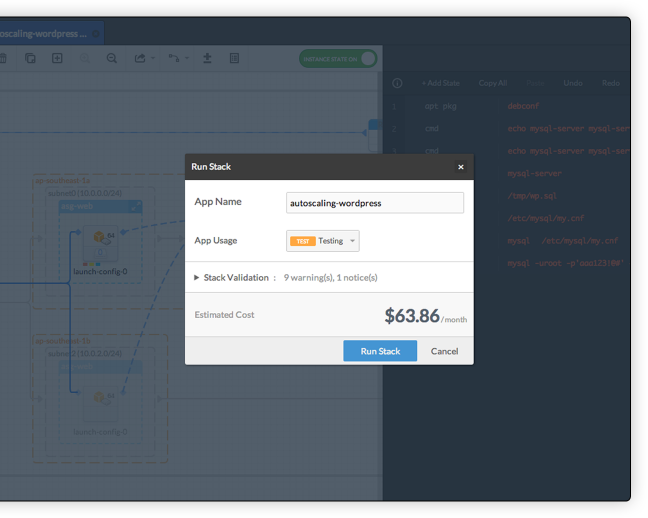
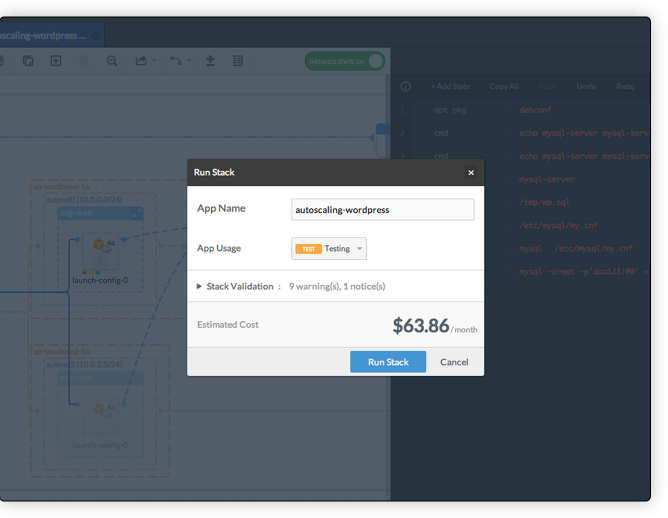
[master] Update bg gradient and hiw_2

diff --git a/scss/style.scss b/scss/style.scss
@@ -528,12 +528,12 @@ path.dash {
   z-index  : 4;
   top      : 0;
   left     : 0;
-  background: -moz-linear-gradient(top, rgba(0,0,0,0) 0%, rgba(0,0,0,0.3) 100%); /* FF3.6+ */
-  background: -webkit-gradient(linear, left top, left bottom, color-stop(0%,rgba(0,0,0,0)), color-stop(100%,rgba(0,0,0,0.3))); /* Chrome,Safari4+ */
-  background: -webkit-linear-gradient(top, rgba(0,0,0,0) 0%,rgba(0,0,0,0.3) 100%); /* Chrome10+,Safari5.1+ */
-  background: -o-linear-gradient(top, rgba(0,0,0,0) 0%,rgba(0,0,0,0.3) 100%); /* Opera 11.10+ */
-  background: -ms-linear-gradient(top, rgba(0,0,0,0) 0%,rgba(0,0,0,0.3) 100%); /* IE10+ */
-  background: linear-gradient(to bottom, rgba(0,0,0,0) 0%,rgba(0,0,0,0.3) 100%); /* W3C */
+  background: -moz-linear-gradient(top, rgba(0,0,0,0) 0%, rgba(19, 46, 156, 0.3) 100%); /* FF3.6+ */
+  background: -webkit-gradient(linear, left top, left bottom, color-stop(0%,rgba(0,0,0,0)), color-stop(100%,rgba(19, 46, 156, 0.3))); /* Chrome,Safari4+ */
+  background: -webkit-linear-gradient(top, rgba(0,0,0,0) 0%,rgba(19, 46, 156, 0.3) 100%); /* Chrome10+,Safari5.1+ */
+  background: -o-linear-gradient(top, rgba(0,0,0,0) 0%,rgba(19, 46, 156, 0.3) 100%); /* Opera 11.10+ */
+  background: -ms-linear-gradient(top, rgba(0,0,0,0) 0%,rgba(19, 46, 156, 0.3) 100%); /* IE10+ */
+  background: linear-gradient(to bottom, rgba(0,0,0,0) 0%,rgba(19, 46, 156, 0.3) 100%); /* W3C */
 }
 
 .hiw_content {
